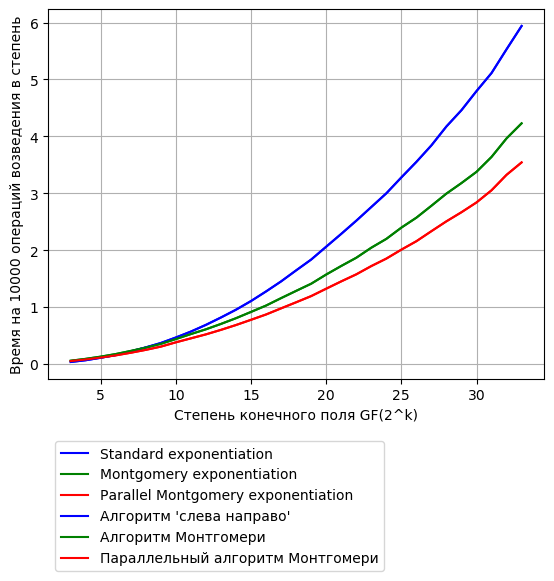
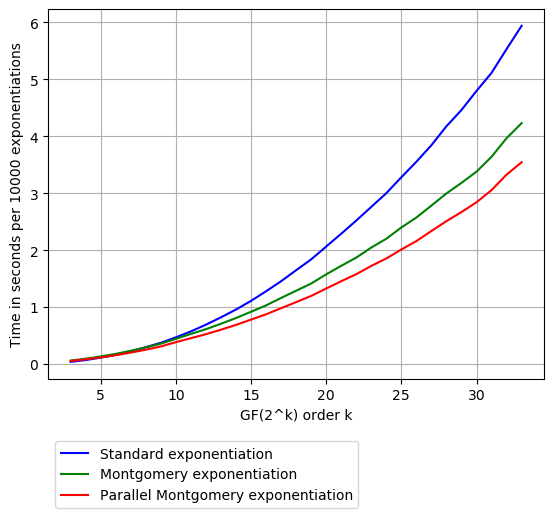
fixed graphs

Changed region(s): [[0.0, 0.0, 0.9819, 0.9884], [0.0614, 0.6795, 0.0921, 0.7104]]

diff --git a/res_graph.py b/res_graph.py
@@ -8,7 +8,6 @@ def attributes(mode='num', type='absolute', lang='en'):
     title = "Comparison of finite field modular exponentiation algorithms for small polynomials"
     xlabel = "GF(2^k) order k"
     ylabel = "Time in seconds per 10000 exponentiations"
-    relative = type == 'relative'
     if mode == 'bignum':
         filename += '_bignum'
     elif mode == 'dhke':
@@ -20,7 +19,7 @@ def attributes(mode='num', type='absolute', lang='en'):
         elif mode == 'dhke':
             title = "Comparison of finite field modular exponentiation algorithms for DHKE implementations"
             ylabel = "Time in seconds per key exchange"
-        if relative:
+        if type == 'relative':
             ylabel = ylabel.replace("Time in seconds", "Percentage of time")
     elif lang == 'ru':
         algo_types = ["Алгоритм 'слева направо'", "Алгоритм Монтгомери", "Параллельный алгоритм Монтгомери"]
@@ -33,14 +32,15 @@ def attributes(mode='num', type='absolute', lang='en'):
         elif mode == 'dhke':
             title = "Сравнение алгоритмов возведения в степень по модулю для алгоритма Диффи-Хеллмана"
             ylabel = "Время на операцию обмена ключами"
-        if relative:
+        if type == 'relative':
             ylabel = ylabel.replace("Время", "Процент времени")
-    return filename, relative, title, xlabel, ylabel, algo_types
+    return filename, type, lang, title, xlabel, ylabel, algo_types
 
 
 def draw_graph(params):
-    filename, relative, title, xlabel, ylabel, algo_types = params
+    filename, type, lang, title, xlabel, ylabel, algo_types = params
     input_file = filename + '.txt'
+    plt.clf()
     bit_length = []
     data = [[], [], []]
     with open(input_file) as f:
@@ -54,7 +54,7 @@ def draw_graph(params):
                 bit_length.append(algo_bit_length)
     bit_length.sort()
     print(bit_length)
-    if not relative:
+    if type != 'relative':
         for algo_index in range(3):
             data[algo_index].sort(key=lambda algo_data: algo_data[0])
             algo_time = []
@@ -65,7 +65,7 @@ def draw_graph(params):
                 algo_time.append(float(algo_time_sum / len(times_bit_length)))
             clr = "bgrcmykw"
             plt.plot(bit_length, algo_time, color=clr[algo_index], label=algo_types[algo_index])
-    elif relative:
+    elif type == 'relative':
         data[0].sort(key=lambda algo_data: algo_data[0])
         reference_algo_time = []
         for algo_bit_length in bit_length:
@@ -84,9 +84,11 @@ def draw_graph(params):
             clr = "bgrcmykw"
             plt.plot(bit_length, algo_time, color=clr[algo_index], label=algo_types[algo_index])
 
-    if relative:
+    if type == 'relative':
         filename += "_percent"
         plt.ylim(0, 100)
+    if lang == 'ru':
+        filename += '_ru'
 
     plt.xlabel(xlabel)
     plt.ylabel(ylabel)
